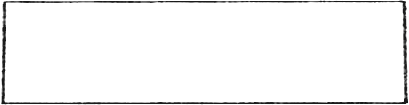
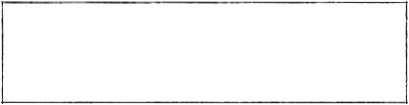
fix: give every frame exact right angles
The owner found the corners odd: the drawn frame is slightly skewed, so its
stretched sides missed its corners, and a small rounding remained. The frame
is rebuilt from the owner's four lines with their slant removed, so they meet
at right angles and keep their drawn texture; the rounding is gone.

Evidence: pnpm verify exit 0, visual check at 3x.

Changed region(s): [[0.0, 0.0, 0.9976, 1.0]]

diff --git a/e2e/settings.spec.ts b/e2e/settings.spec.ts
@@ -252,3 +252,17 @@ test("the corner stays clear of the timer at every width", async ({ page }) => {
     expect(clear, `at ${width} px`).toBe(true);
   }
 });
+
+test("frames have square corners", async ({ page }) => {
+  await seedGame(page, {});
+  await page.goto("/");
+  await expect(page.getByRole("button", { name: "Start" })).toHaveCSS(
+    "border-radius",
+    "0px",
+  );
+  await page.getByRole("button", { name: "To-Dos" }).click();
+  await expect(page.getByLabel("Neue Aufgabe")).toHaveCSS(
+    "border-radius",
+    "0px",
+  );
+});

diff --git a/src/ui/style.css b/src/ui/style.css
@@ -15,7 +15,7 @@
   /* The owner's drawn frame; every box keeps its size. */
   --frame: url("./assets/frame.png") 12 / 9px stretch;
   /* Slightly uneven corners, like the boxes the owner draws. */
-  --sketch-corners: 3px 6px 2px 5px;
+  --sketch-corners: 0;
   /* Characters the owner did not draw, such as an é in a name, fall through. */
   font-family: "Pomo Hand", "Patrick Hand", "Segoe Print", cursive;
   font-size: 21px;

diff --git a/specs/001-pomo-cat/spec.md b/specs/001-pomo-cat/spec.md
@@ -37,6 +37,7 @@ Geklärt im Interview (Fragen Q1 bis Q36, Wortlaut im Journal):
 - 2026-11-04 Q: Kleinigkeiten aus Runde 2? → A: Passen so: Beim Snack und beim Spielen zeigt die Katze vorerst die Herzaugen; abgehakte Aufgaben bleiben stehen, bis man sie löscht; der Kalender beginnt am Montag; eine zweite offene App wartet mit einem Hinweis (Runde 2, Q2).
 - 2026-11-04 Q: Wartet die Abnahme auf die restlichen Zeichnungen? → A: Nein. Alles andere wird fertig, die Zeichnungen kommen nach, sobald es sie gibt (Q43, r16).
 - 2026-11-04 Q: Letzte Wünsche vor der Abnahme? → A: Snacks kosten 5 Münzen; das Futter liegt im gezeichneten Größenverhältnis im Napf, ohne weißen Rand; alle Rahmen sind die gezeichnete Rahmen-Zeichnung; Fragezeichen und Zahnrad stehen zusammen oben links und sind immer da; das Fragezeichen erklärt, wie die Katze glücklich bleibt (r17 bis r20, r23, r24).
+- 2026-11-04 Q: Ecken der Rahmen? → A: Alle im 90°-Winkel, nicht abgerundet; das ersetzt die zwei runden Ecken (r28).
 - 2026-11-04 Q: Richtiger Raum und neue Geräusche? → A: Beides wird ein eigener nächster Abschnitt nach der Abnahme. Die Raum-Zeichnung ist der erste Entwurf. Geräusche bekommen genau zwei Lautstärkeregler: Katzengeräusche und Alarme (r21, r22, r24).
 
 ## User Scenarios & Testing *(mandatory)*
@@ -240,7 +241,7 @@ Neben dem Timer kann ich eine einfache Liste aufklappen, damit ich weiß, was ic
 - **FR-040**: Alle Grafiken MÜSSEN austauschbare Einzelbilder sein, damit Entwürfe ohne weitere Änderungen durch die fertigen farbigen Bilder ersetzt werden können. Bewegung entsteht durch Bildwechsel.
 - **FR-041**: Timer und Knöpfe MÜSSEN eine gut lesbare handschriftliche Schrift nutzen.
 - **FR-049**: Das Fragezeichen MUSS oben links immer erreichbar sein und ein Fenster mit dem Text „So bleibt deine Katze glücklich:“ und den drei Punkten der Eigentümerin bzw. des Eigentümers öffnen (r20).
-- **FR-050**: Knöpfe, Eingabefelder, aufgeklappte Bereiche und Fenster MÜSSEN die gezeichnete Rahmen-Zeichnung nutzen, ihre Größe bleibt gleich (r19).
+- **FR-050**: Knöpfe, Eingabefelder, aufgeklappte Bereiche und Fenster MÜSSEN die gezeichnete Rahmen-Zeichnung mit Ecken im 90°-Winkel nutzen, ihre Größe bleibt gleich (r19, r28).
 - **FR-051**: Das Futter MUSS im Napf im Größenverhältnis der Zeichnung liegen und darf keinen weißen Rand zeigen (r18).
 - **FR-042**: Zur Testrunde MUSS eine Liste aller benötigten Bilder mit Maßen vorliegen.
 

diff --git a/specs/001-pomo-cat/tasks.md b/specs/001-pomo-cat/tasks.md
@@ -163,6 +163,7 @@ journey. Tests are written alongside the code they prove, never deferred.
 - [X] T046 Owner's frame drawing as every frame in src/ui/style.css, sizes unchanged; docs/design/image-list.md names it (r19, FR-050, SC-010)
 - [X] T047 Question mark and gear together top left, always available, help window in both catalogs, closed by the feed window; tests (r20, r23, FR-011, FR-036, FR-049, SC-002)
 - [X] T048 Third snack drawing in the shop, named Knusperstangen; plant, rug and scratching post leave the shop, owned ones stay (r25 to r27, FR-027, FR-030, SC-006)
+- [X] T049 All frame corners at exactly 90 degrees, built from the owner's drawn lines (r28, FR-050)
 - [ ] T043 [GATE] C3 checkpoint (owner-facing: "Ready to accept"): same procedure as T018; request explicit acceptance. **STOP**; never mark accepted without a recorded owner decision. After acceptance: write the retro entry (docs/retro.md) and offer to send it upstream.
 
 ---

diff --git a/docs/design/image-list.md b/docs/design/image-list.md
@@ -7,7 +7,7 @@ kannst eine Zeichnung jederzeit durch eine neue Version ersetzen.
 
 Katze schlafend, fressend, sitzend, weinend und mit Herzaugen; Münze, Zahnrad;
 Wollknäuel, Spielmaus, Kissen; Napf, Nassfutter, Trockenfutter, Thunfisch;
-Lachsstick, Katzenminze, Knusperstangen; dein Alphabet; der Rahmen (`frame.png`).
+Lachsstick, Katzenminze, Knusperstangen; dein Alphabet; der Rahmen (`frame.png`, gerade gezogen aus `frame.jpg`).
 
 ## Noch offen
 
